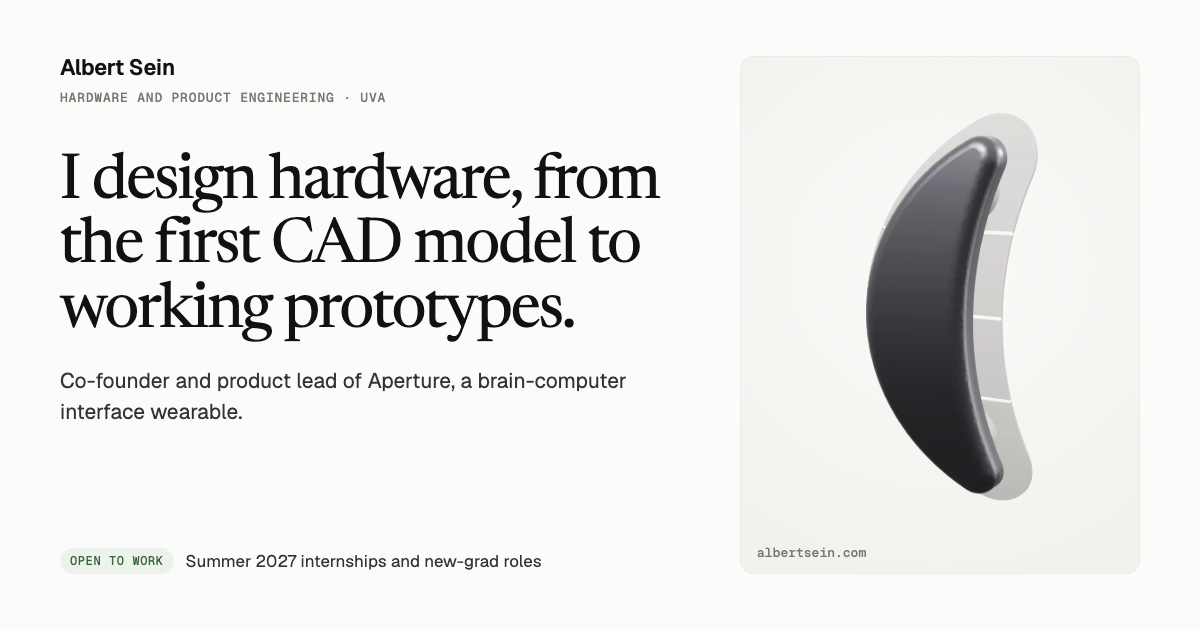
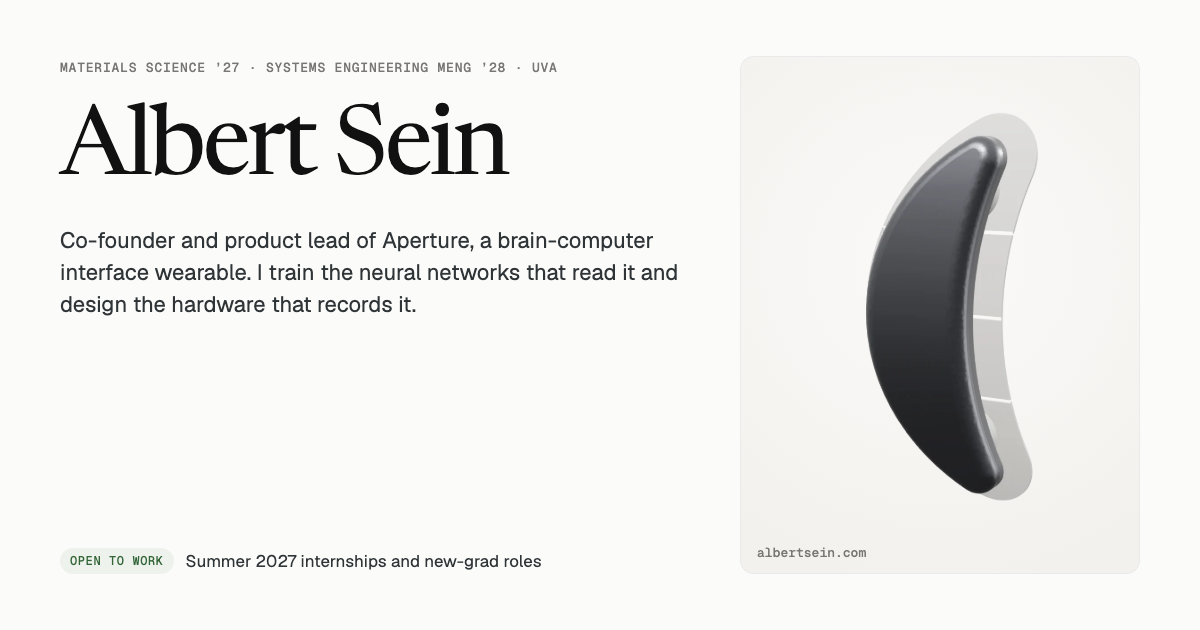
Front page opens with the name and bio instead of a tagline

Changed region(s): [[0.0308, 0.1508, 0.5858, 0.5429], [0.0308, 0.573, 0.5242, 0.6635], [0.0308, 0.0905, 0.4625, 0.1206]]

diff --git a/index.html b/index.html
@@ -3,18 +3,18 @@
 <head>
 <meta charset="utf-8">
 <meta name="viewport" content="width=device-width, initial-scale=1, viewport-fit=cover">
-<title>Albert Sein — Hardware and product engineering</title>
+<title>Albert Sein</title>
 <meta name="description" content="Albert Sein co-founded Aperture, a brain-computer interface wearable: neural networks that read sleep and alertness, and the hardware in Fusion 360 and KiCad. UVA Materials Science ’27, Systems Engineering MEng ’28. Open to Summer 2027 internships and new-grad roles.">
 <link rel="canonical" href="https://albertsein.com/">
 <meta property="og:type" content="website">
 <meta property="og:site_name" content="Albert Sein">
-<meta property="og:title" content="Albert Sein — Hardware and product engineering">
-<meta property="og:description" content="I design hardware, from the first CAD model to working prototypes. Now building a brain-computer interface wearable.">
+<meta property="og:title" content="Albert Sein">
+<meta property="og:description" content="Co-founder and product lead of Aperture, a brain-computer interface wearable. UVA Materials Science ’27, Systems Engineering MEng ’28. Open to Summer 2027 internships and new-grad roles.">
 <meta property="og:url" content="https://albertsein.com/">
 <meta property="og:image" content="https://albertsein.com/og.png">
 <meta property="og:image:width" content="1200">
 <meta property="og:image:height" content="630">
-<meta property="og:image:alt" content="Albert Sein, hardware and product engineering, with a render of the Aperture wearable">
+<meta property="og:image:alt" content="Albert Sein, co-founder of Aperture, with a render of the Aperture wearable">
 <meta name="twitter:card" content="summary_large_image">
 <meta name="twitter:image" content="https://albertsein.com/og.png">
 <meta name="theme-color" content="#fbfbfa">
@@ -63,7 +63,7 @@
     <div class="wrap">
       <div>
         <p class="label who">Materials Science ’27 &middot; Systems Engineering MEng ’28 &middot; UVA</p>
-        <h1>I design hardware, from the first CAD model to working prototypes.</h1>
+        <h1>Albert Sein</h1>
         <p class="lead">I co-founded <a href="/aperture">Aperture</a>, a brain-computer interface you wear behind your ear, and I lead its product. We train neural networks that predict sleep and alertness from two channels of brain signal, and I design the hardware that records it.</p>
         <p class="lead">I came to it with no background in neurotech. I learn fast, I take ownership of problems before anyone assigns them, and I've already shipped an app and packaged a device for a manufacturer's review.</p>
         <p class="open"><span class="tag green">Open to work</span><span>Summer 2027 internships and new-grad roles in technical project management, product and hardware engineering.</span></p>

diff --git a/tools/og/card.html b/tools/og/card.html
@@ -11,9 +11,9 @@
   body { display: grid; grid-template-columns: 640px 1fr; gap: 40px; padding: 56px 60px; }
   .text { display: flex; flex-direction: column; }
   .name { font: 600 22px/1 "Geist", sans-serif; color: #111; letter-spacing: -.01em; }
-  .label { margin-top: 12px; font: 500 13px/1.3 "Geist Mono", monospace; letter-spacing: .06em; text-transform: uppercase; color: #787774; }
-  h1 { margin-top: 44px; font: 400 62px/1.04 "Newsreader", Georgia, serif; letter-spacing: -.03em; color: #111; }
-  .now { margin-top: 22px; font-size: 21px; line-height: 1.45; color: #2f3437; }
+  .label { margin-top: 4px; font: 500 13px/1.3 "Geist Mono", monospace; letter-spacing: .06em; text-transform: uppercase; color: #787774; }
+  h1 { margin-top: 26px; font: 400 96px/1 "Newsreader", Georgia, serif; letter-spacing: -.03em; color: #111; }
+  .now { margin-top: 26px; font-size: 22px; line-height: 1.45; color: #2f3437; }
   .open { display: flex; align-items: center; gap: 12px; margin-top: auto; font-size: 17px; color: #2f3437; }
   .tag { padding: 4px 10px; border-radius: 999px; background: #edf3ec; color: #346538; font: 500 12px/1.5 "Geist Mono", monospace; letter-spacing: .05em; text-transform: uppercase; white-space: nowrap; }
   .plate { position: relative; border: 1px solid #eaeaea; border-radius: 14px; background: radial-gradient(120% 90% at 50% 40%, #fbfaf8 0%, #f2f1ee 70%); overflow: hidden; }
@@ -23,10 +23,9 @@
 </head>
 <body>
   <div class="text">
-    <p class="name">Albert Sein</p>
-    <p class="label">Hardware and product engineering &middot; UVA</p>
-    <h1>I design hardware, from the first CAD model to working prototypes.</h1>
-    <p class="now">Co-founder and product lead of Aperture, a brain-computer interface wearable.</p>
+    <p class="label">Materials Science &rsquo;27 &middot; Systems Engineering MEng &rsquo;28 &middot; UVA</p>
+    <h1>Albert Sein</h1>
+    <p class="now">Co-founder and product lead of Aperture, a brain-computer interface wearable. I train the neural networks that read it and design the hardware that records it.</p>
     <p class="open"><span class="tag">Open to work</span>Summer 2027 internships and new-grad roles</p>
   </div>
   <div class="plate"><img id="plate" src="/media/renders/aperture-hero.webp" alt=""><span class="site">albertsein.com</span></div>
